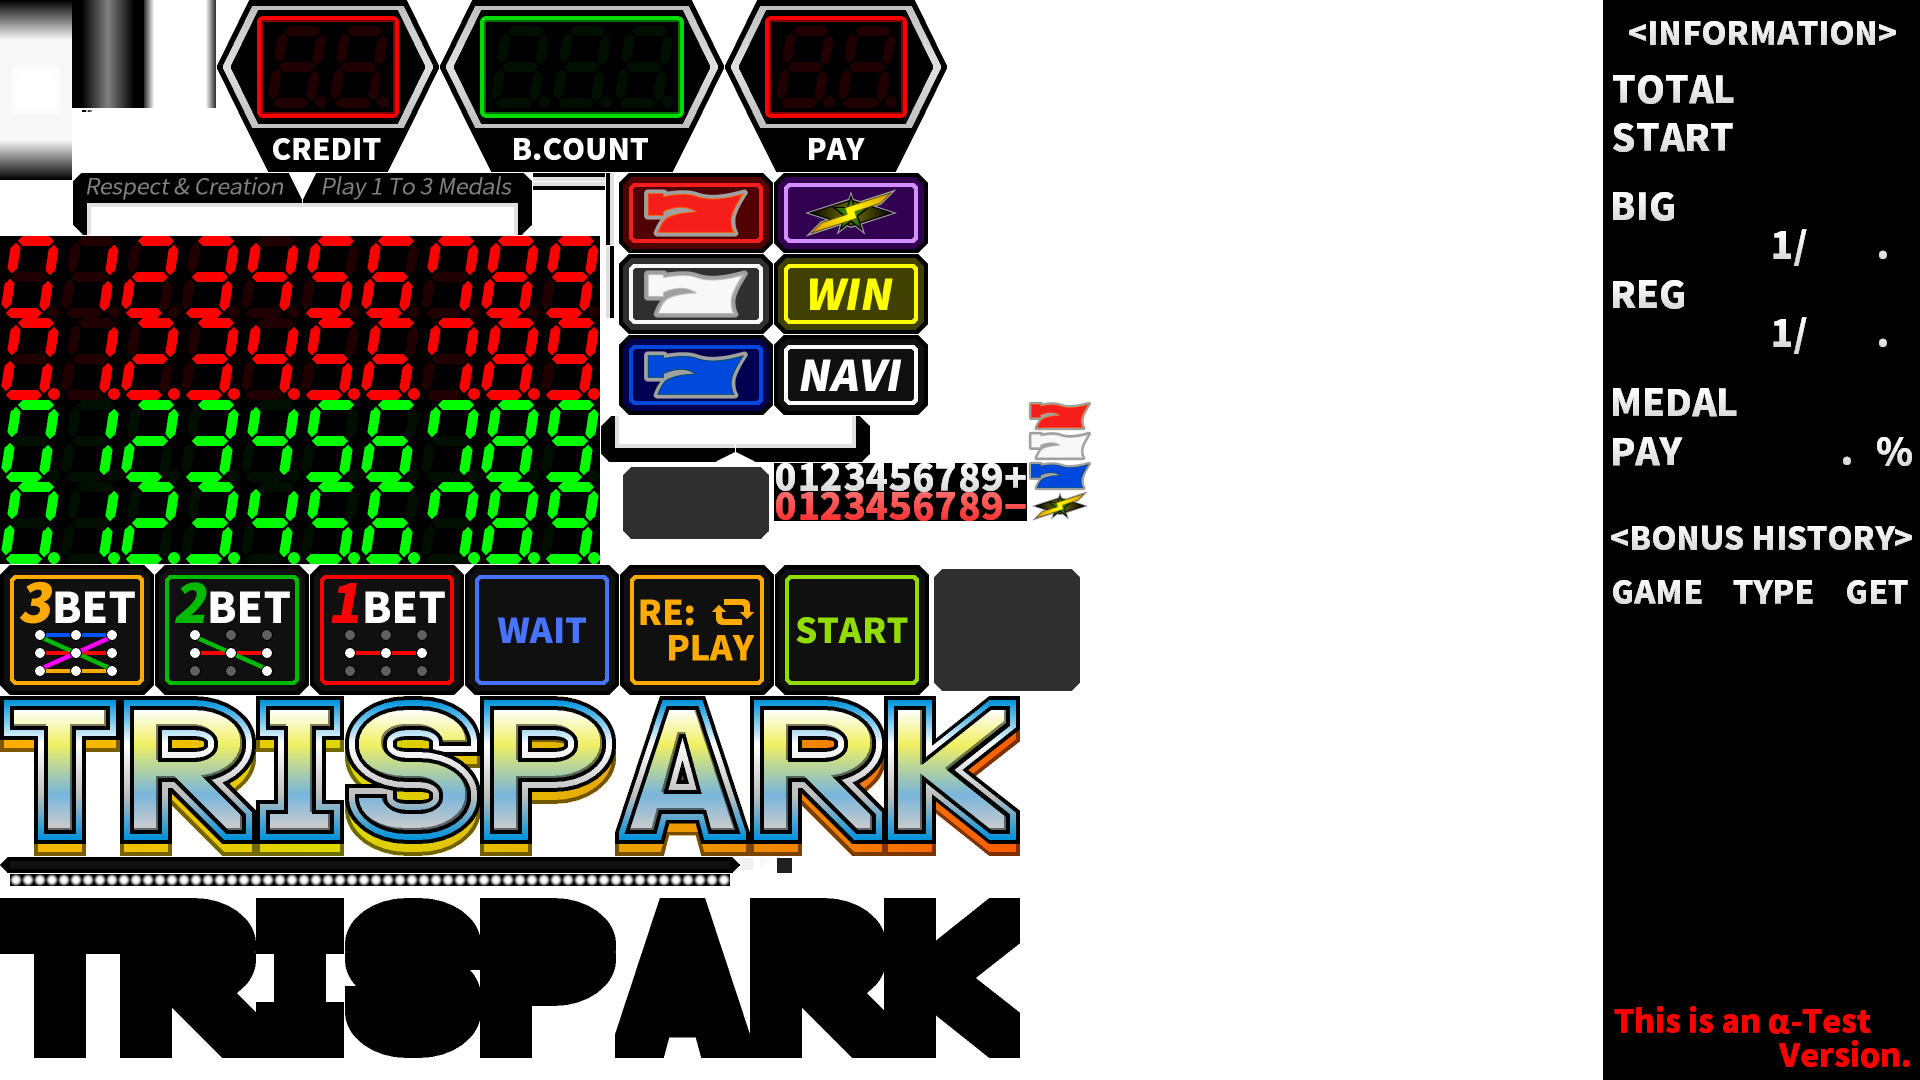
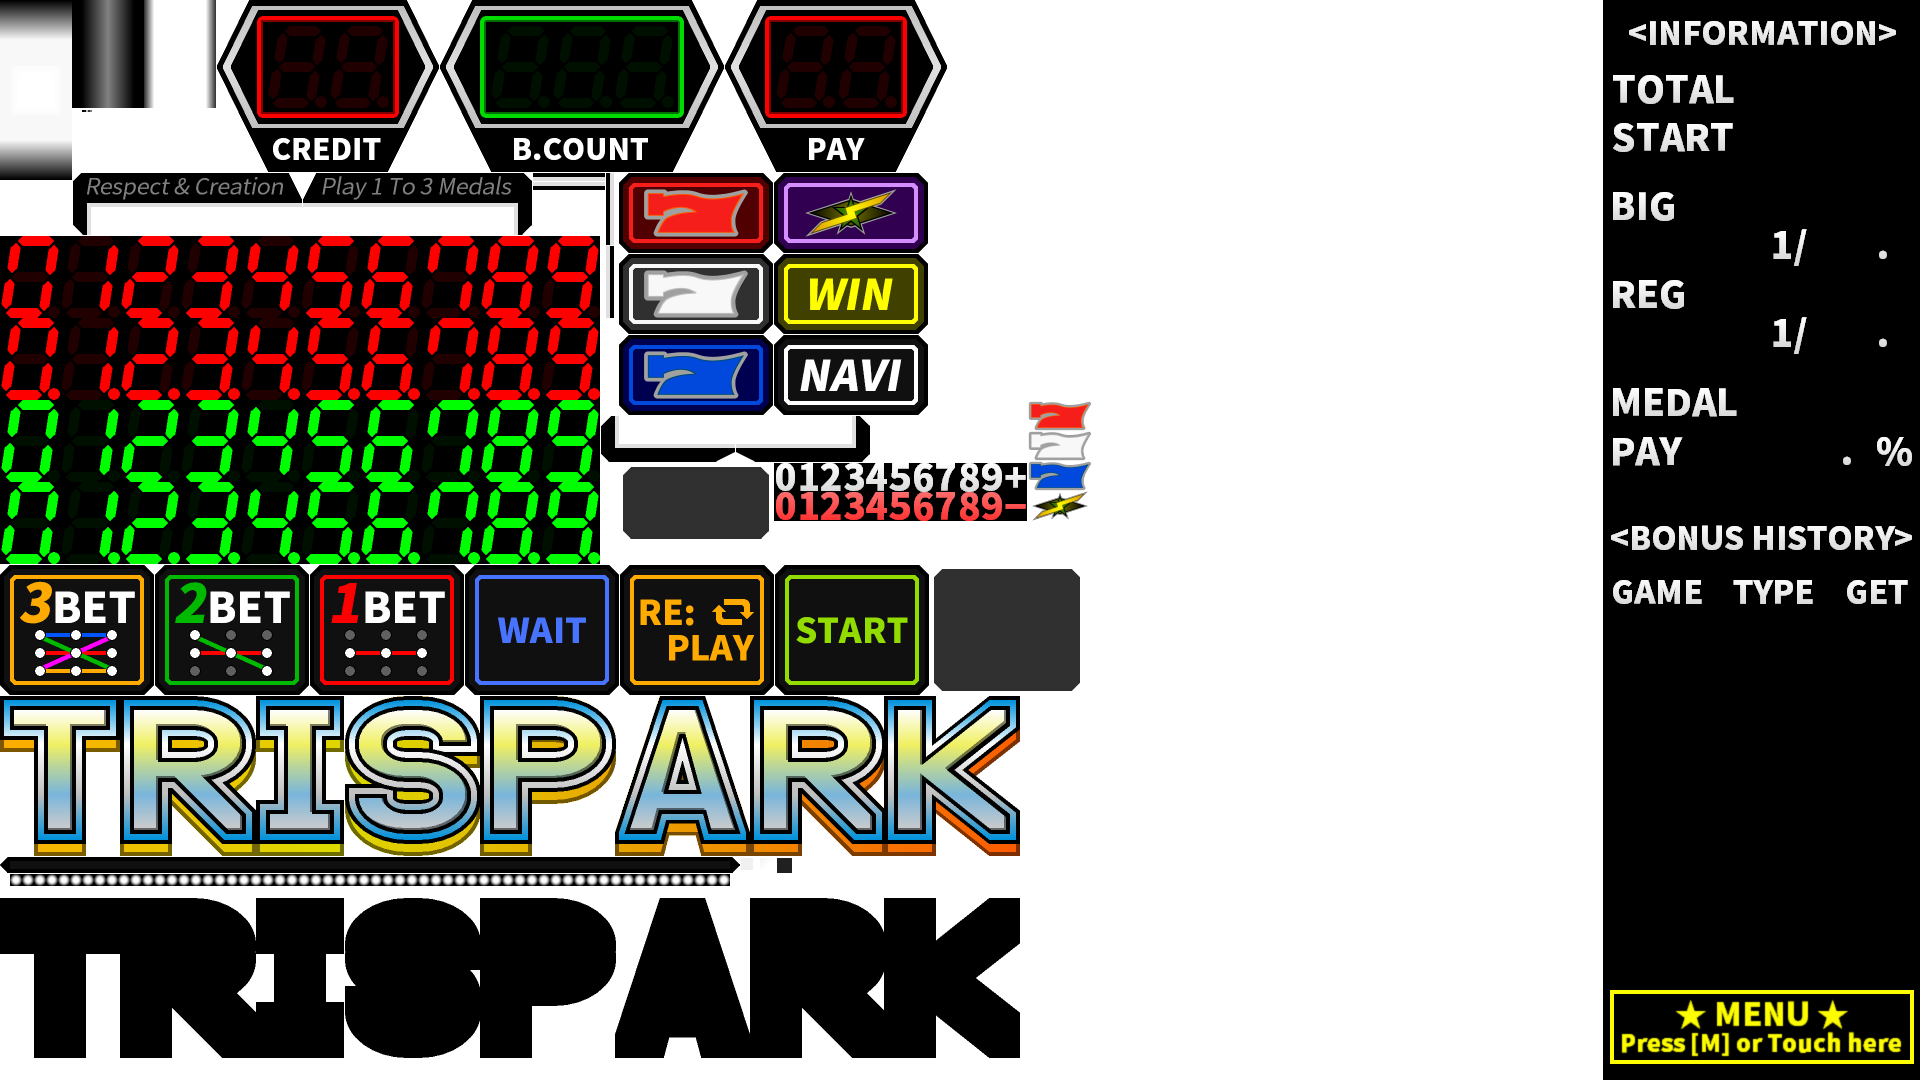
[ADD]メニュー画面に遊び方を追加
メニュー展開時の初期位置も遊び方に変更した

Changed region(s): [[0.8438, 0.9167, 1.0, 1.0]]

diff --git a/TriSpark_Slot/_src/IMenuElements.cpp b/TriSpark_Slot/_src/IMenuElements.cpp
@@ -1,4 +1,7 @@
 #include "_header/IMenuElements.hpp"
+#include "_header/CGameDataManage.h"
+#include "_header/CGetSysDataFromCSV.hpp"
+#include "_header/CMenuReadHowtoFromCSV.hpp"
 #include "DxLib.h"
 #include <cstring>
 
@@ -57,10 +60,10 @@ EMenuList CMenuLicenses::PushButton(int pKeyHandleDX) {
 	switch (pKeyHandleDX)
 	{
 	case KEY_INPUT_LEFT:
-		return EMenuList::eReelHistory;
+		return EMenuList::eHowTo;
 		break;
 	case KEY_INPUT_RIGHT:
-		return EMenuList::eReelHistory;
+		return EMenuList::eHowTo;
 		break;
 	case KEY_INPUT_UP:
 		if (mCurrentStartCol > 0) --mCurrentStartCol;
@@ -111,6 +114,61 @@ EMenuList CMenuReelHistory::PushButton(int pKeyHandleDX) {
 		return EMenuList::eContinue;
 		break;
 	case KEY_INPUT_DOWN:
+		return EMenuList::eContinue;
+		break;
+	default:
+		break;
+	}
+	return EMenuList::eContinue;
+}
+
+CMenuHowTo::CMenuHowTo(CGameDataManage& pGameData, const int pBaseImgID, const int pTitleFontHandle)
+	: IMenuElements(u8"How to play", pBaseImgID, pTitleFontHandle) {
+	CGetSysDataFromCSV reader;
+	reader.FileInit(pGameData.GetDataHandle(0));
+
+	CMenuReadHowtoFromCSV howto;
+	howto.FileInit(pGameData.GetDataHandle(reader.GetSysDataID("howtoList")));
+	for (auto i = 0; ; ++i) {
+		const int fileHandle = howto.GetImageID(i);
+		if (fileHandle == -1) break;
+		mImages.push_back(pGameData.GetDataHandle(fileHandle));
+	}
+
+	mPageNum = 0;
+}
+
+bool CMenuHowTo::Init() {
+	return true;
+}
+
+bool CMenuHowTo::Process() {
+	return true;
+}
+
+bool CMenuHowTo::Draw(const int pOpacity) {
+	DrawBase(pOpacity);
+
+	DxLib::SetDrawBlendMode(DX_BLENDMODE_ALPHA, pOpacity);
+	DxLib::DrawGraph(231, 320, mImages[mPageNum], TRUE);
+	return true;
+}
+
+EMenuList CMenuHowTo::PushButton(int pKeyHandleDX) {
+	switch (pKeyHandleDX)
+	{
+	case KEY_INPUT_LEFT:
+		return EMenuList::eLicense;
+		break;
+	case KEY_INPUT_RIGHT:
+		return EMenuList::eLicense;
+		break;
+	case KEY_INPUT_UP:
+		if (mPageNum > 0) --mPageNum;
+		return EMenuList::eContinue;
+		break;
+	case KEY_INPUT_DOWN:
+		if ((unsigned int)mPageNum < mImages.size() - 1) ++mPageNum;
 		return EMenuList::eContinue;
 		break;
 	default:

diff --git a/TriSpark_Slot/_src/_header/IMenuElements.hpp b/TriSpark_Slot/_src/_header/IMenuElements.hpp
@@ -1,11 +1,14 @@
 #pragma once
 #include <string>
 #include <vector>
+class CGameDataManage;
+class CMenuReadHowtoFromCSV;
 
 enum class EMenuList {
 	eContinue,
 	eLicense,
 	eReelHistory,
+	eHowTo,
 	eMenuMax
 };
 
@@ -45,6 +48,17 @@ class CMenuReelHistory : public IMenuElements {
 	const int				mFontHandle;
 public:
 	CMenuReelHistory(const int pDataFontHandle, const int pBaseImgID, const int pTitleFontHandle);	// : IMenuElements("Stop History") {}
+	bool Init() override;						// ライセンスファイル読み込み
+	bool Process() override;					// none
+	bool Draw(const int pOpacity) override;		// ライセンスファイル内容表示(DrawText)
+	EMenuList PushButton(int pKeyHandleDX) override;	// モード遷移/スクロール
+};
+
+class CMenuHowTo : public IMenuElements {
+	std::vector<int>	mImages;
+	int					mPageNum;
+public:
+	CMenuHowTo(CGameDataManage& pGameData, const int pBaseImgID, const int pTitleFontHandle);	// : IMenuElements("Stop History") {}
 	bool Init() override;						// ライセンスファイル読み込み
 	bool Process() override;					// none
 	bool Draw(const int pOpacity) override;		// ライセンスファイル内容表示(DrawText)

diff --git a/TriSpark_Slot/_src/CMenuManager.cpp b/TriSpark_Slot/_src/CMenuManager.cpp
@@ -22,12 +22,12 @@ bool CMenuManager::Init(CGameDataManage& pDataManageIns, const int pLicenseFileI
 	return true;
 }
 
-bool CMenuManager::Process() {
+bool CMenuManager::Process(CGameDataManage& pDataManageIns) {
 	CKeyExport_S& key = CKeyExport_S::GetInstance();
 	if (key.GetExportStatus() == EKeyExportStatus::eGameMain) {
 		if (key.ExportKeyState(KEY_INPUT_M)) {
 			// initialize
-			mMenuElement = new CMenuLicenses(mLicenseTXT, mDataFontHandle, mBaseImgID, mTitleFontHandle);
+			mMenuElement = new CMenuHowTo(pDataManageIns, mBaseImgID, mTitleFontHandle);
 			mMenuElement->Init();
 			key.SetExportStatus(EKeyExportStatus::eMenu);
 			mMenuStartTime = DxLib::GetNowCount();
@@ -49,6 +49,12 @@ bool CMenuManager::Process() {
 					delete mMenuElement;
 					mMenuElement = nullptr;
 					mMenuElement = new CMenuReelHistory(mDataFontHandle, mBaseImgID, mTitleFontHandle);
+					mMenuElement->Init();
+					break;
+				case EMenuList::eHowTo:
+					delete mMenuElement;
+					mMenuElement = nullptr;
+					mMenuElement = new CMenuHowTo(pDataManageIns, mBaseImgID, mTitleFontHandle);
 					mMenuElement->Init();
 					break;
 				}

diff --git a/TriSpark_Slot/_src/CMenuReadHowtoFromCSV.cpp b/TriSpark_Slot/_src/CMenuReadHowtoFromCSV.cpp
@@ -1,0 +1,30 @@
+#include "_header/CMenuReadHowtoFromCSV.hpp"
+#include "DxLib.h"
+
+bool CMenuReadHowtoFromCSV::FileInit(int pFileID) {
+	DxLib::FileRead_seek(pFileID, 0, SEEK_SET);
+	while (!DxLib::FileRead_eof(pFileID)) {
+		TCHAR str[1024];
+		DxLib::FileRead_gets(str, 1024, pFileID);
+		m_ReadDataAll.append(str).append("\n");
+	}
+	return !m_ReadDataAll.empty();
+}
+
+int CMenuReadHowtoFromCSV::GetImageID(int pageNo) {
+	m_ReadDataNowCurrent = 0;
+	int pageCount = -1;
+
+	while (!DataEOF()) {
+		StringArr NowGetStr;
+		GetStrSplitByComma(NowGetStr);
+		if (NowGetStr.size() < 2) continue;
+		if (NowGetStr[0] != "#howto") continue;
+		if (++pageCount == pageNo) {
+			int ans;
+			StrToNum(ans, NowGetStr[1]);
+			return ans;
+		}
+	}
+	return -1;
+}

diff --git a/TriSpark_Slot/_src/CGameState_SlotGameMain.cpp b/TriSpark_Slot/_src/CGameState_SlotGameMain.cpp
@@ -61,7 +61,7 @@ EChangeStateFlag CGameState_SlotGameMain::Process(CGameDataManage& pDataManageIn
 
 	m_data.reelManager.Process(m_data.timeManager);
 	m_data.effectManager.Process(m_data.timeManager, m_data.internalDataManager, m_data);
-	m_menuManager.Process();
+	m_menuManager.Process(pDataManageIns);
 	return eStateContinue;
 }
 

diff --git a/TriSpark_Slot/_src/_header/CMenuManager.hpp b/TriSpark_Slot/_src/_header/CMenuManager.hpp
@@ -15,7 +15,7 @@ class CMenuManager {
 public:
 	CMenuManager();
 	bool Init(CGameDataManage& pDataManageIns, const int pLicenseFileID, const int pDataFontHandle, const int pBaseImgID, const int pTitleFontHandle);
-	bool Process();
+	bool Process(CGameDataManage& pDataManageIns);
 	bool Draw();
 	~CMenuManager();
 };

diff --git a/TriSpark_Slot/_src/_header/CMenuReadHowtoFromCSV.hpp b/TriSpark_Slot/_src/_header/CMenuReadHowtoFromCSV.hpp
@@ -1,0 +1,8 @@
+#pragma once
+#include "IReadcsv.h"
+
+class CMenuReadHowtoFromCSV : IReadCSVBase {
+public:
+	bool FileInit(int pFileID);
+	int GetImageID(int pageNo);
+};
